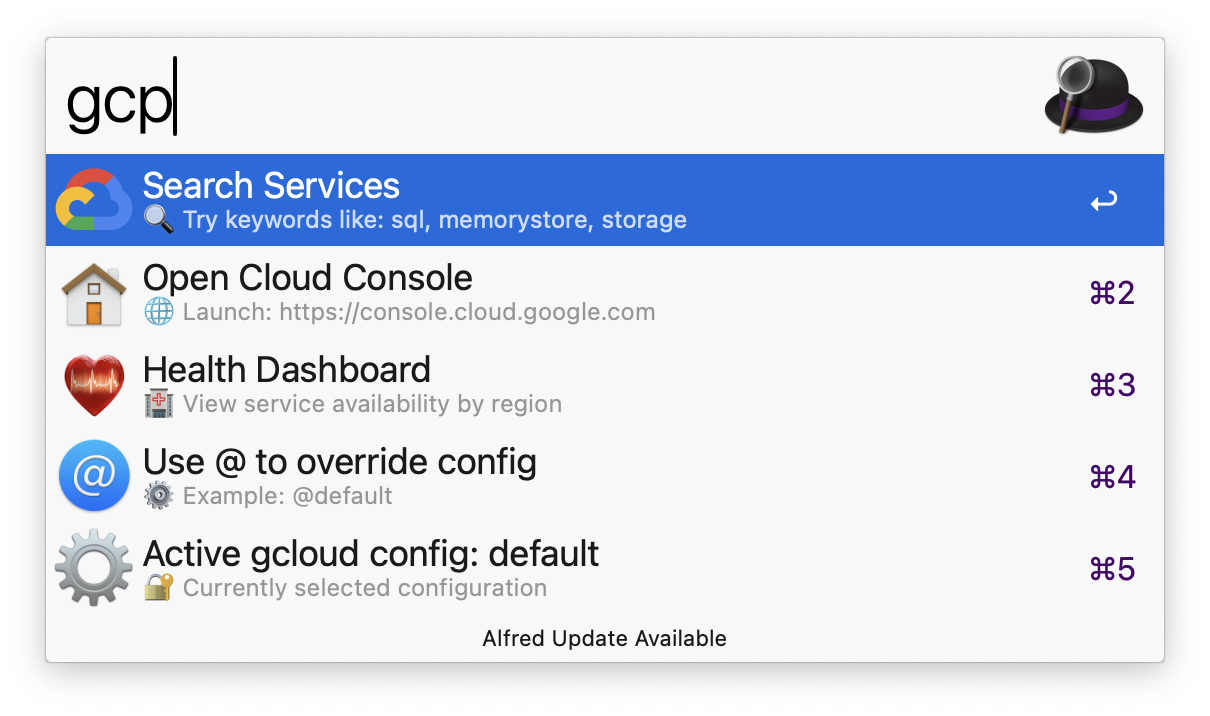
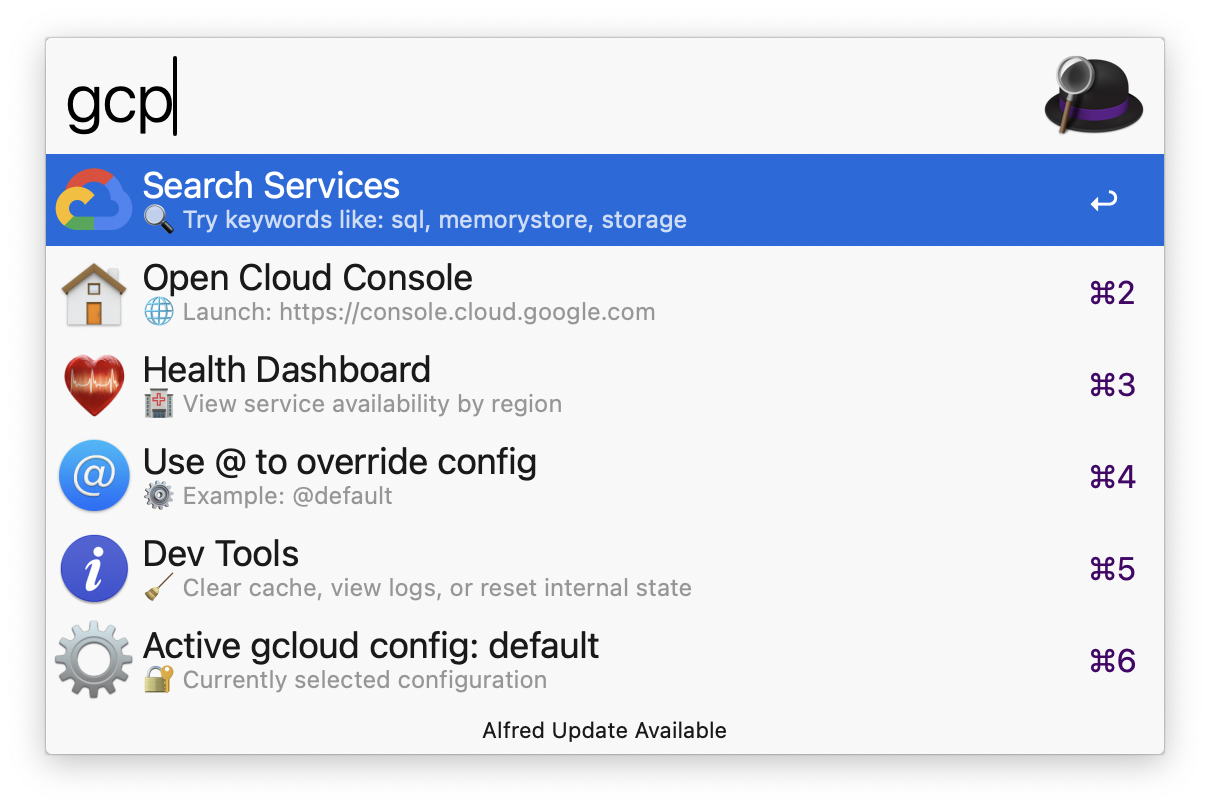
rename magic actions identifier

diff --git a/orchestrator/home.go b/orchestrator/home.go
@@ -7,12 +7,17 @@ import (
 	"github.com/dineshgowda24/alfred-gcp-workflow/gcloud"
 )
 
+const (
+	MagicPrefix = "tools:"
+)
+
 type homeItem struct {
-	Title    string
-	Subtitle string
-	Arg      string
-	Icon     *aw.Icon
-	Valid    bool
+	Title        string
+	Subtitle     string
+	Arg          string
+	Icon         *aw.Icon
+	Valid        bool
+	AutoComplete string
 }
 
 var _ Handler = (*HomeHandler)(nil)
@@ -47,6 +52,14 @@ func (h *HomeHandler) Handle(ctx *Context) error {
 			Icon:     aw.IconAccount,
 			Valid:    false,
 		},
+		{
+			Title:        "Dev Tools",
+			Subtitle:     "🧹 Clear cache, view logs, or reset internal state",
+			Arg:          MagicPrefix,
+			AutoComplete: MagicPrefix,
+			Icon:         aw.IconInfo,
+			Valid:        false,
+		},
 	}
 
 	if ctx.ActiveConfig != nil {
@@ -76,6 +89,9 @@ func (h *HomeHandler) Handle(ctx *Context) error {
 		}
 		if item.Icon != nil {
 			it.Icon(item.Icon)
+		}
+		if item.AutoComplete != "" {
+			it.Autocomplete(item.AutoComplete)
 		}
 	}
 

diff --git a/cmd/runner.go b/cmd/runner.go
@@ -11,9 +11,9 @@ import (
 	"github.com/dineshgowda24/alfred-gcp-workflow/workflow/arg"
 )
 
-const (
-	MagicPrefix = "janitor:"
-)
+func NewWorkflow() *aw.Workflow {
+	return aw.New(aw.MagicPrefix(ors.MagicPrefix))
+}
 
 type Runner struct {
 	wf         *aw.Workflow
@@ -37,7 +37,7 @@ func (r *Runner) RewireMagicQuery() *Runner {
 	for i, arg := range os.Args {
 		if strings.HasPrefix(arg, "--query=") {
 			query := strings.TrimPrefix(arg, "--query=")
-			if strings.HasPrefix(query, MagicPrefix) {
+			if strings.HasPrefix(query, ors.MagicPrefix) {
 				os.Args[i] = query
 			}
 		}

diff --git a/main.go b/main.go
@@ -20,7 +20,7 @@ func init() {
 }
 
 func main() {
-	wf := aw.New(aw.MagicPrefix(cmd.MagicPrefix))
+	wf := cmd.NewWorkflow()
 	logDirs(wf)
 	cmd.NewRunner(wf, servicesFs).
 		RewireMagicQuery().

diff --git a/README.md b/README.md
@@ -28,9 +28,9 @@ An Alfred workflow to quickly open GCP services in your browser or search GCP re
 
 ### Advanced Usage
 
-1. The workflow supports janitor actions [janitor actions](https://pkg.go.dev/github.com/deanishe/awgo#MagicAction)**(powered by AwGo Magic Actions)** to manage internal workflow data. Type `gcp janitor:` to view available options — such as clearing cache, accessing logs, or resetting data folders.
-![Janitor](images/docs/janitor.png)
-> Example: View showing available janitor actions
+1. The workflow supports maintenance tools powered by [AwGo Magic Actions](https://pkg.go.dev/github.com/deanishe/awgo#MagicAction). Type `gcp tools:` to access options like clearing cache, viewing logs, or resetting internal data folders.
+![Tools](images/docs/tools.png)
+> Example: View showing available maintenance tools
 1. The workflow also supports [Fuzzy Filtering](https://pkg.go.dev/github.com/deanishe/awgo/fuzzy), allowing you to quickly find services or resources even with partial or out-of-order matches.
 
 ## 🔍⚡ Supported Resource Searches
